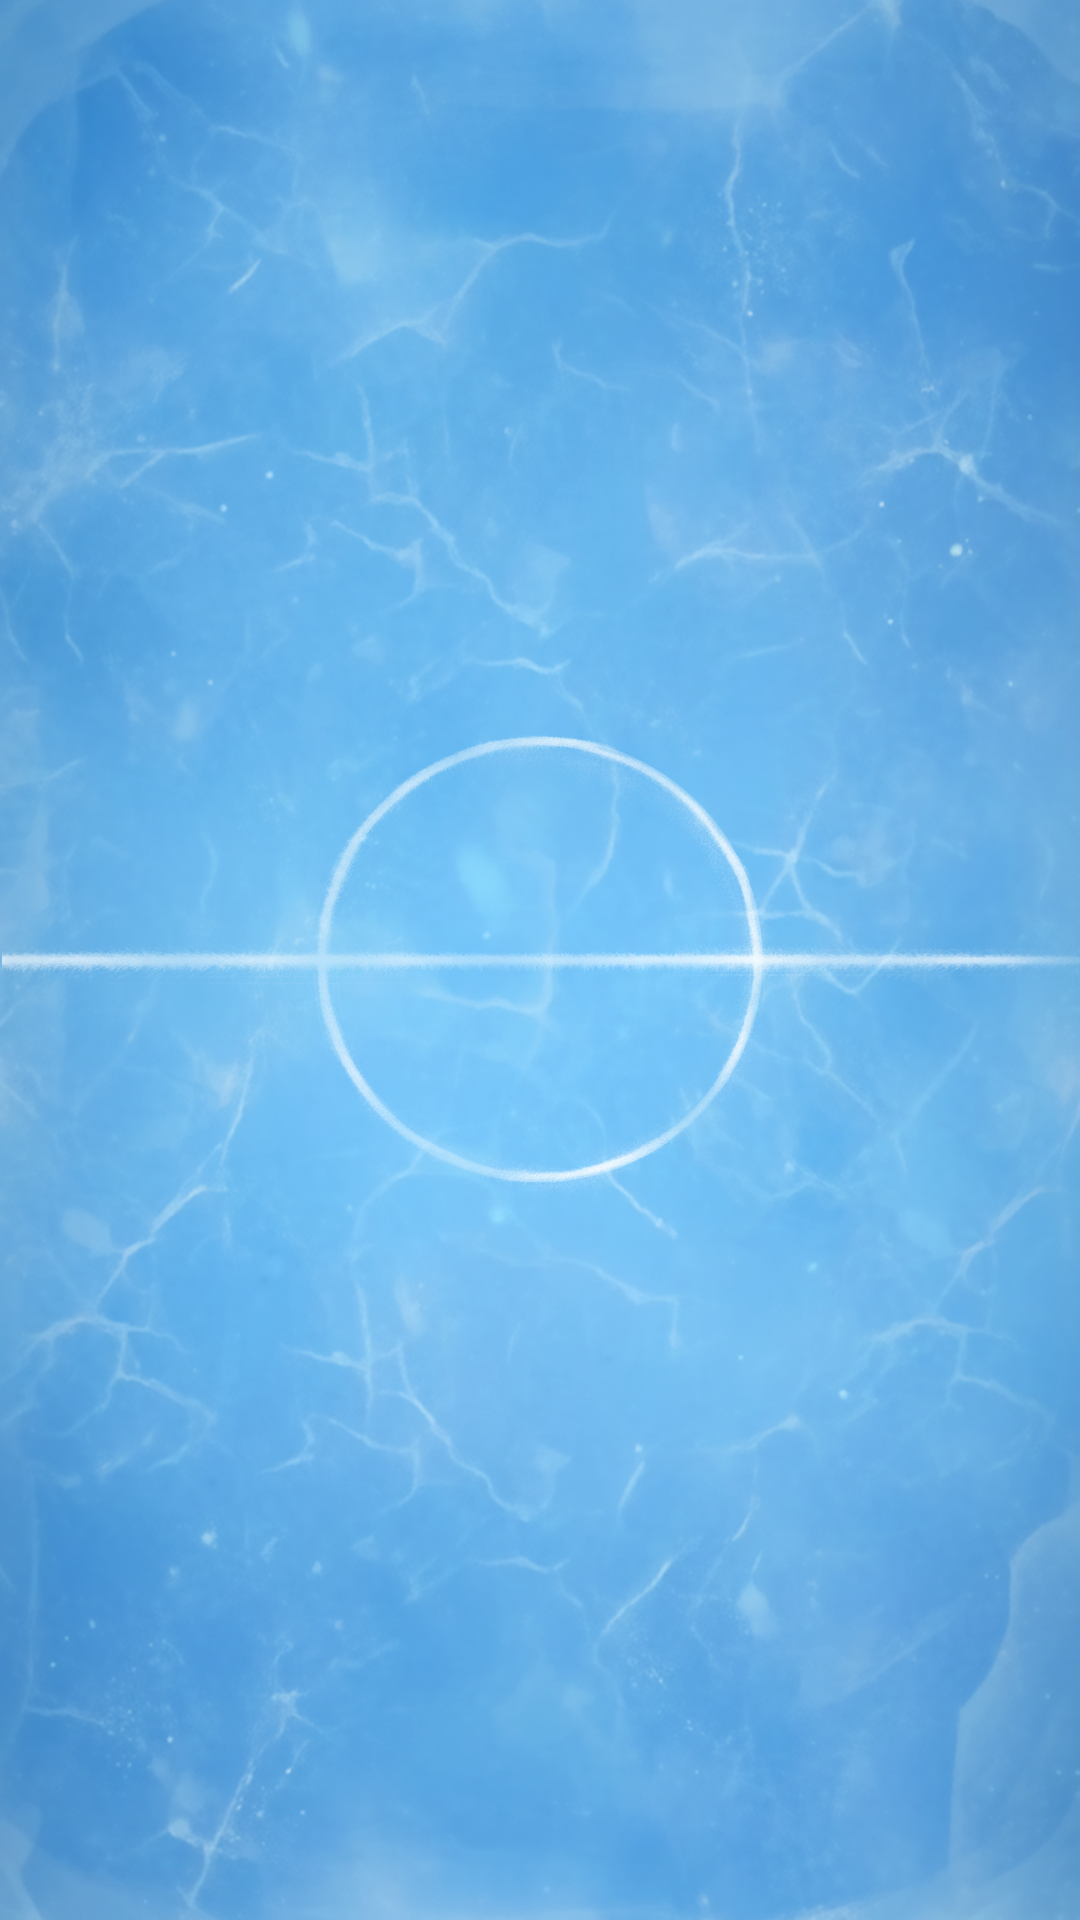
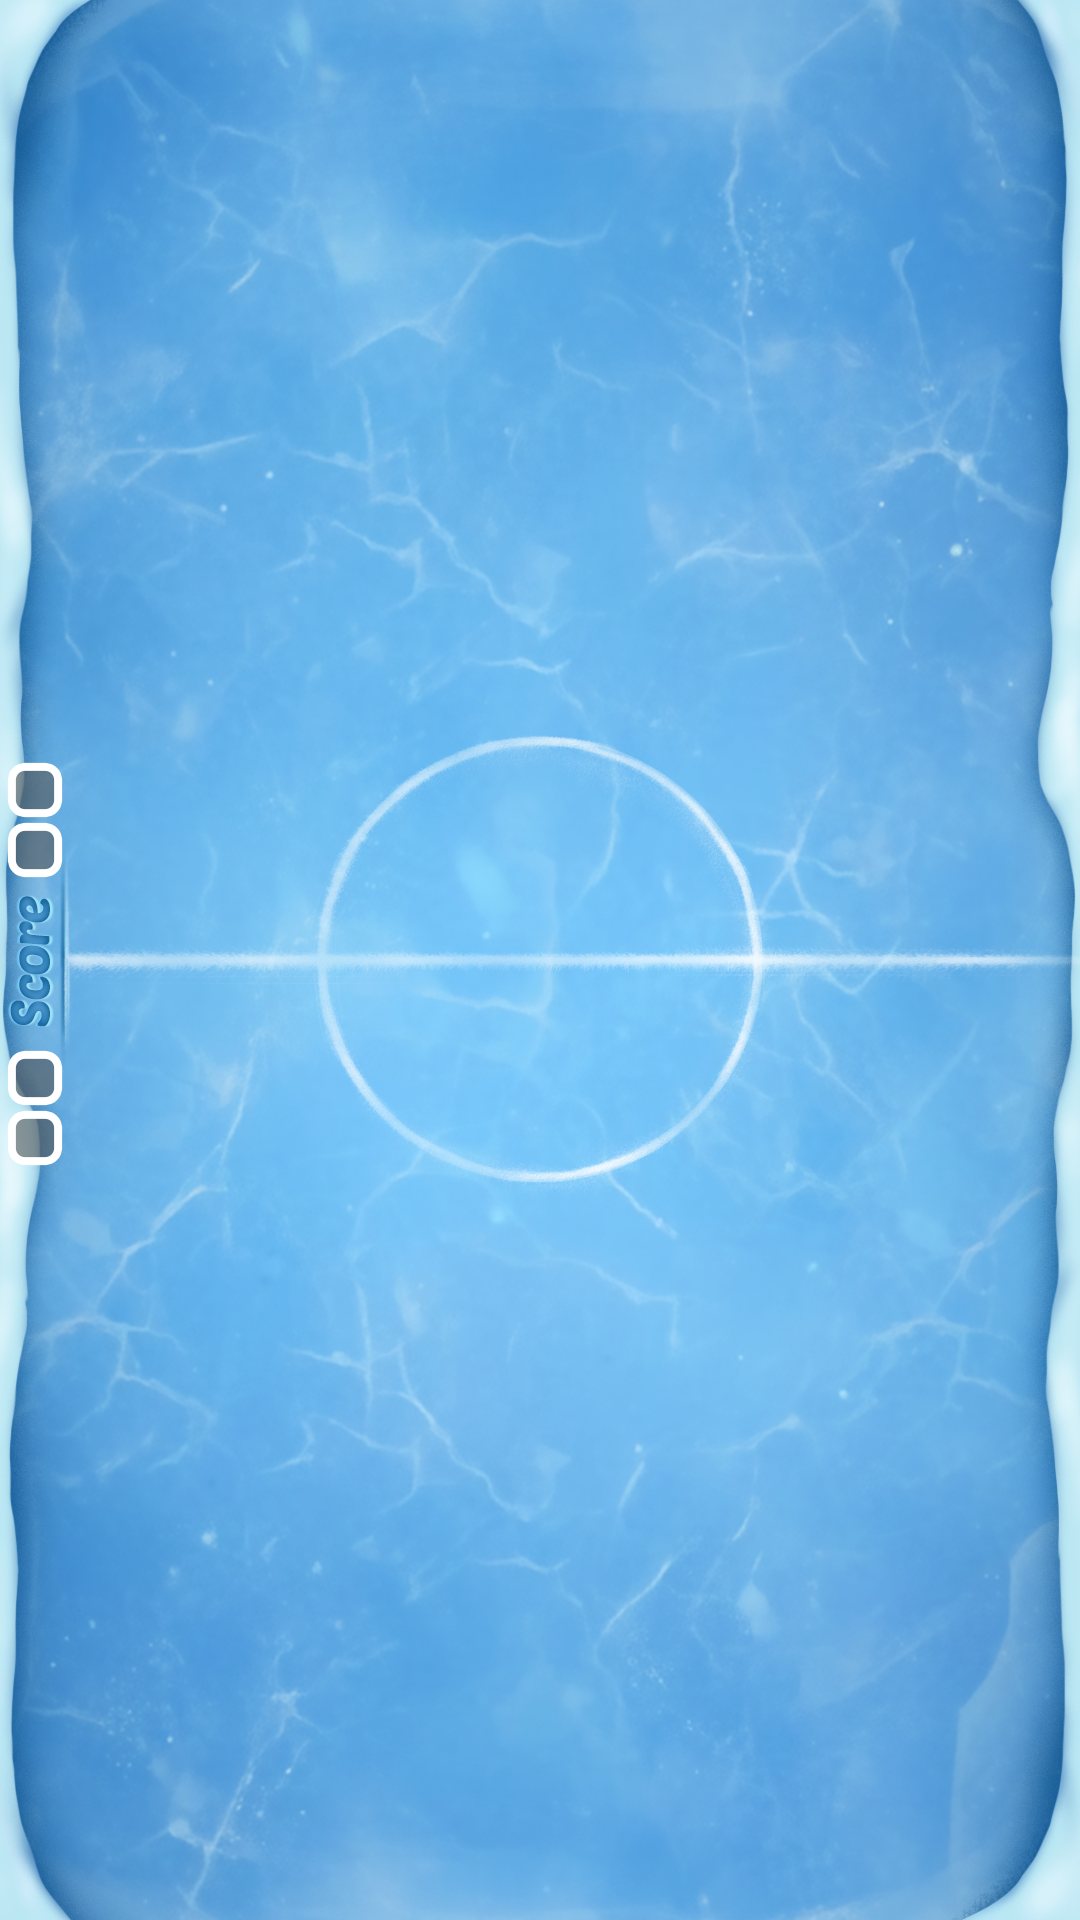
Refined scoring UI and added paddle movement constraints during serve

Changed region(s): [[0.8861, 0.0, 1.0, 1.0], [0.0, 0.0, 0.0917, 1.0]]

diff --git a/script/game.js b/script/game.js
@@ -320,11 +320,19 @@ function handleInputStart(id, tx, ty) {
 
     // 패들 할당
     if (ty < height / 2 && player2.touchId === null) {
-        player2.touchId = id;
-        player2.x = tx - player2.width / 2;
+        // 2P 서브 차례가 아닐 때만 할당 및 이동
+        const is2PTurn = gameState === STATE.READY && ball.y < height / 2;
+        if (!is2PTurn) {
+            player2.touchId = id;
+            player2.x = tx - player2.width / 2;
+        }
     } else if (ty > height / 2 && player1.touchId === null) {
-        player1.touchId = id;
-        player1.x = tx - player1.width / 2;
+        // 1P 서브 차례가 아닐 때만 할당 및 이동
+        const is1PTurn = gameState === STATE.READY && ball.y > height / 2;
+        if (!is1PTurn) {
+            player1.touchId = id;
+            player1.x = tx - player1.width / 2;
+        }
     }
 }
 
@@ -335,9 +343,17 @@ function handleInputMove(id, tx, ty) {
     }
 
     if (id === player2.touchId) {
-        player2.x = Math.max(0, Math.min(width - player2.width, tx - player2.width / 2));
+        // READY 상태일 때 2P가 공을 가지고 있다면 이동 제한
+        const is2PTurn = gameState === STATE.READY && ball.y < height / 2;
+        if (!is2PTurn) {
+            player2.x = Math.max(0, Math.min(width - player2.width, tx - player2.width / 2));
+        }
     } else if (id === player1.touchId) {
-        player1.x = Math.max(0, Math.min(width - player1.width, tx - player1.width / 2));
+        // READY 상태일 때 1P가 공을 가지고 있다면 이동 제한
+        const is1PTurn = gameState === STATE.READY && ball.y > height / 2;
+        if (!is1PTurn) {
+            player1.x = Math.max(0, Math.min(width - player1.width, tx - player1.width / 2));
+        }
     }
 }
 
@@ -594,22 +610,40 @@ function draw() {
         return;
     }
 
-    // 캔버스에 점수 그리기 (객체 레이어보다 뒤에 배치)
+    // 캔버스에 점수 그리기 (왼쪽 가운데 배치)
     ctx.save();
-    ctx.font = 'bold 180px Outfit'; // 크기 수정 가능 (기존 5rem과 유사)
+    ctx.globalAlpha = 0.5;
+
+    // 왼쪽 사이드 여백 설정
+    const scoreX = 150;
+    const scoreY = height / 2;
+
+    ctx.font = 'italic 900 130px Outfit'; // 이탤릭 및 두꺼운 폰트
     ctx.textAlign = 'center';
     ctx.textBaseline = 'middle';
-    ctx.fillStyle = 'rgba(255, 255, 255, 0.3)'; // 화이트 색상 및 투명도 유지
+    ctx.lineWidth = 12;
+    ctx.lineJoin = 'round';
 
-    // 상단(2P) 점수 - 180도 회전
+    // 상단(2P) 점수 - Red (#dd3a3c), 시계 반대 방향 90도 회전
     ctx.save();
-    ctx.translate(width / 2, height * 0.25);
-    ctx.rotate(Math.PI);
+    ctx.translate(scoreX, scoreY - 100);
+    ctx.rotate(-Math.PI / 2); // 90도 회전
+    ctx.strokeStyle = '#c9f7ff';
+    ctx.fillStyle = '#dd3a3c';
+    ctx.strokeText(scoreTop, 0, 0);
     ctx.fillText(scoreTop, 0, 0);
     ctx.restore();
 
-    // 하단(1P) 점수
-    ctx.fillText(scoreBottom, width / 2, height * 0.75);
+    // 하단(1P) 점수 - Blue (#155ae4), 시계 반대 방향 90도 회전
+    ctx.save();
+    ctx.translate(scoreX, scoreY + 120);
+    ctx.rotate(-Math.PI / 2); // 90도 회전
+    ctx.strokeStyle = '#c9f7ff';
+    ctx.fillStyle = '#155ae4';
+    ctx.strokeText(scoreBottom, 0, 0);
+    ctx.fillText(scoreBottom, 0, 0);
+    ctx.restore();
+
     ctx.restore();
 
     // 일시정지 버튼 (경기장 중앙 - 레이어 하단 배치)
